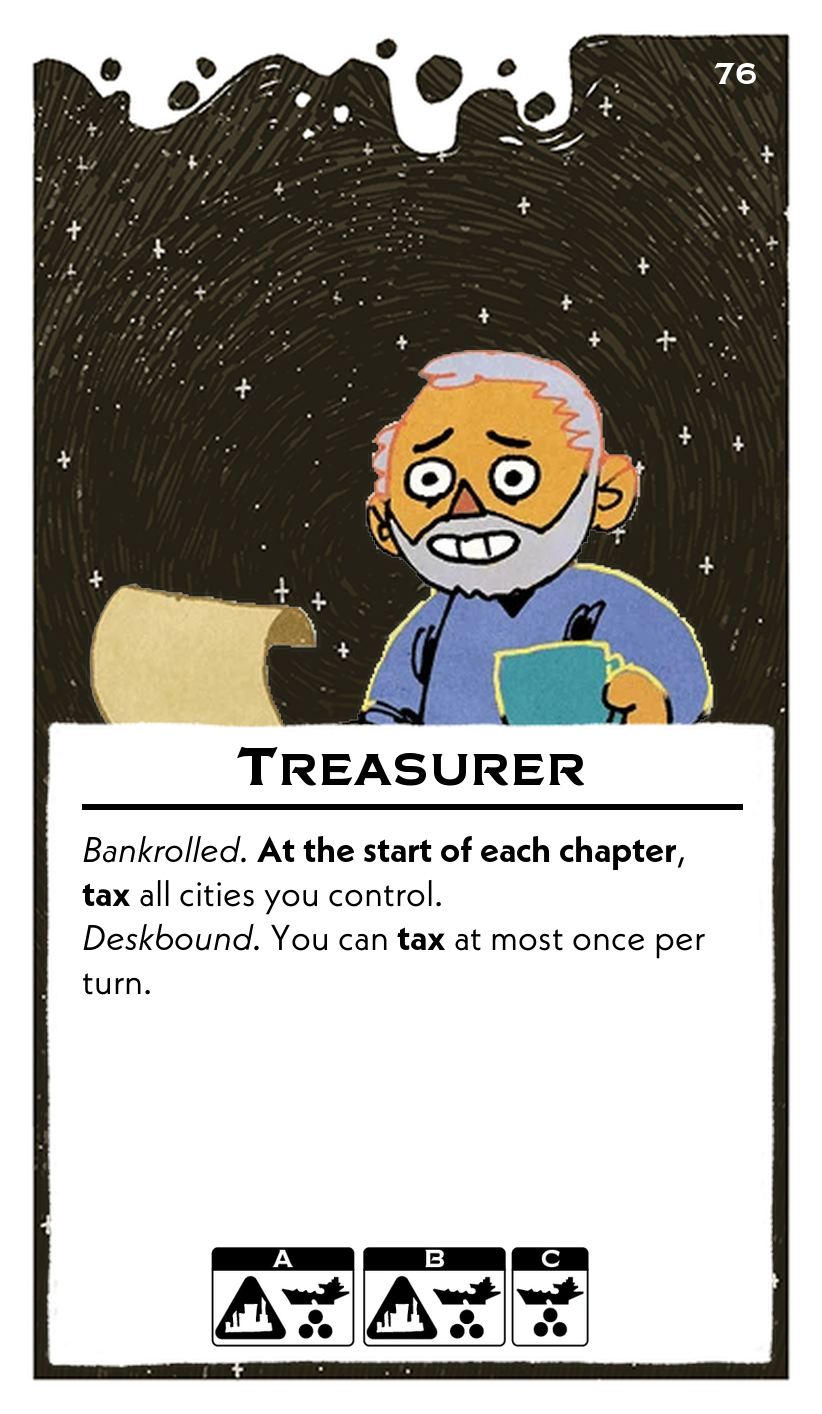
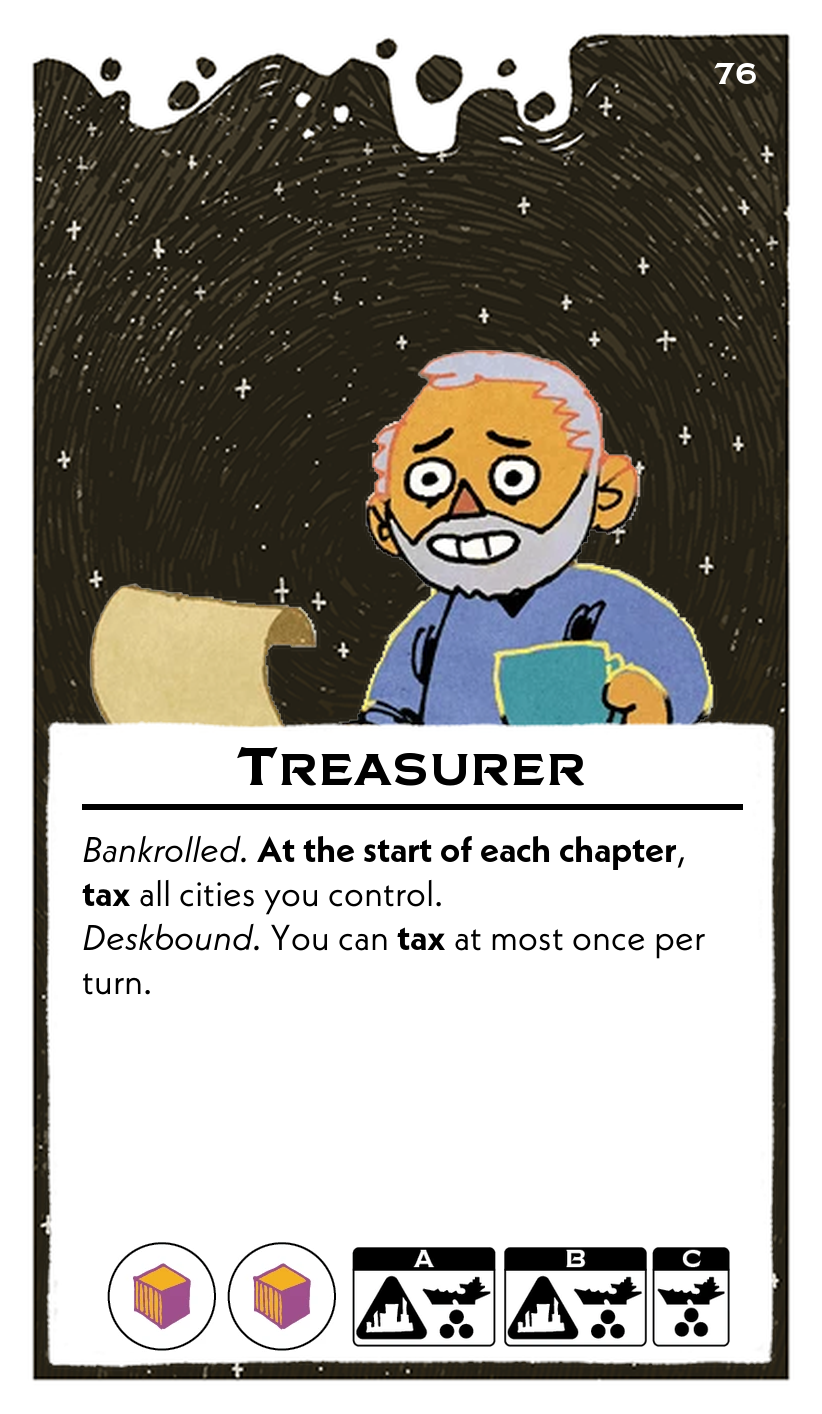
treasurer

Changed region(s): [[0.1217, 0.8713, 0.9124, 0.9646]]

diff --git a/scripts/leadersFormatted.py b/scripts/leadersFormatted.py
@@ -1156,11 +1156,43 @@ leaders = [
             "*Bankrolled.* **At** **the** **start** **of** **each** **chapter**, **tax** all cities you control.\n"
             "*Deskbound.* You can **tax** at most once per turn."
         ),
-        "resources": ["", ""],
+        "resources": ["Material", "Material"],
         "setup": {
             "A": {"ships": 3, "building": "city"},
             "B": {"ships": 3, "building": "city"},
             "C": {"ships": 3, "building": "None"}
+        },
+        "body_font_size": 18
+    },
+
+    # Librarian
+    {
+        "name": "Librarian",
+        "abilities": (
+            "*Well-read.* some lore card ability.\n"
+            "*Overburdened.* "
+        ),
+        "resources": ["Relic", "Psionic"],
+        "setup": {
+            "A": {"ships": 3, "building": "city"},
+            "B": {"ships": 3, "building": "city"},
+            "C": {"ships": 2, "building": "None"}
+        },
+        "body_font_size": 18
+    },
+
+    # Taxonomist
+    {
+        "name": "Taxonomist",
+        "abilities": (
+            "*Categorical.* You may discard a resource to change to take any action with a pip.\n"
+            "*Fastidious.* ."
+        ),
+        "resources": ["Material", "Relic"],
+        "setup": {
+            "A": {"ships": 3, "building": "city"},
+            "B": {"ships": 3, "building": "starport"},
+            "C": {"ships": 2, "building": "None"}
         },
         "body_font_size": 18
     },
